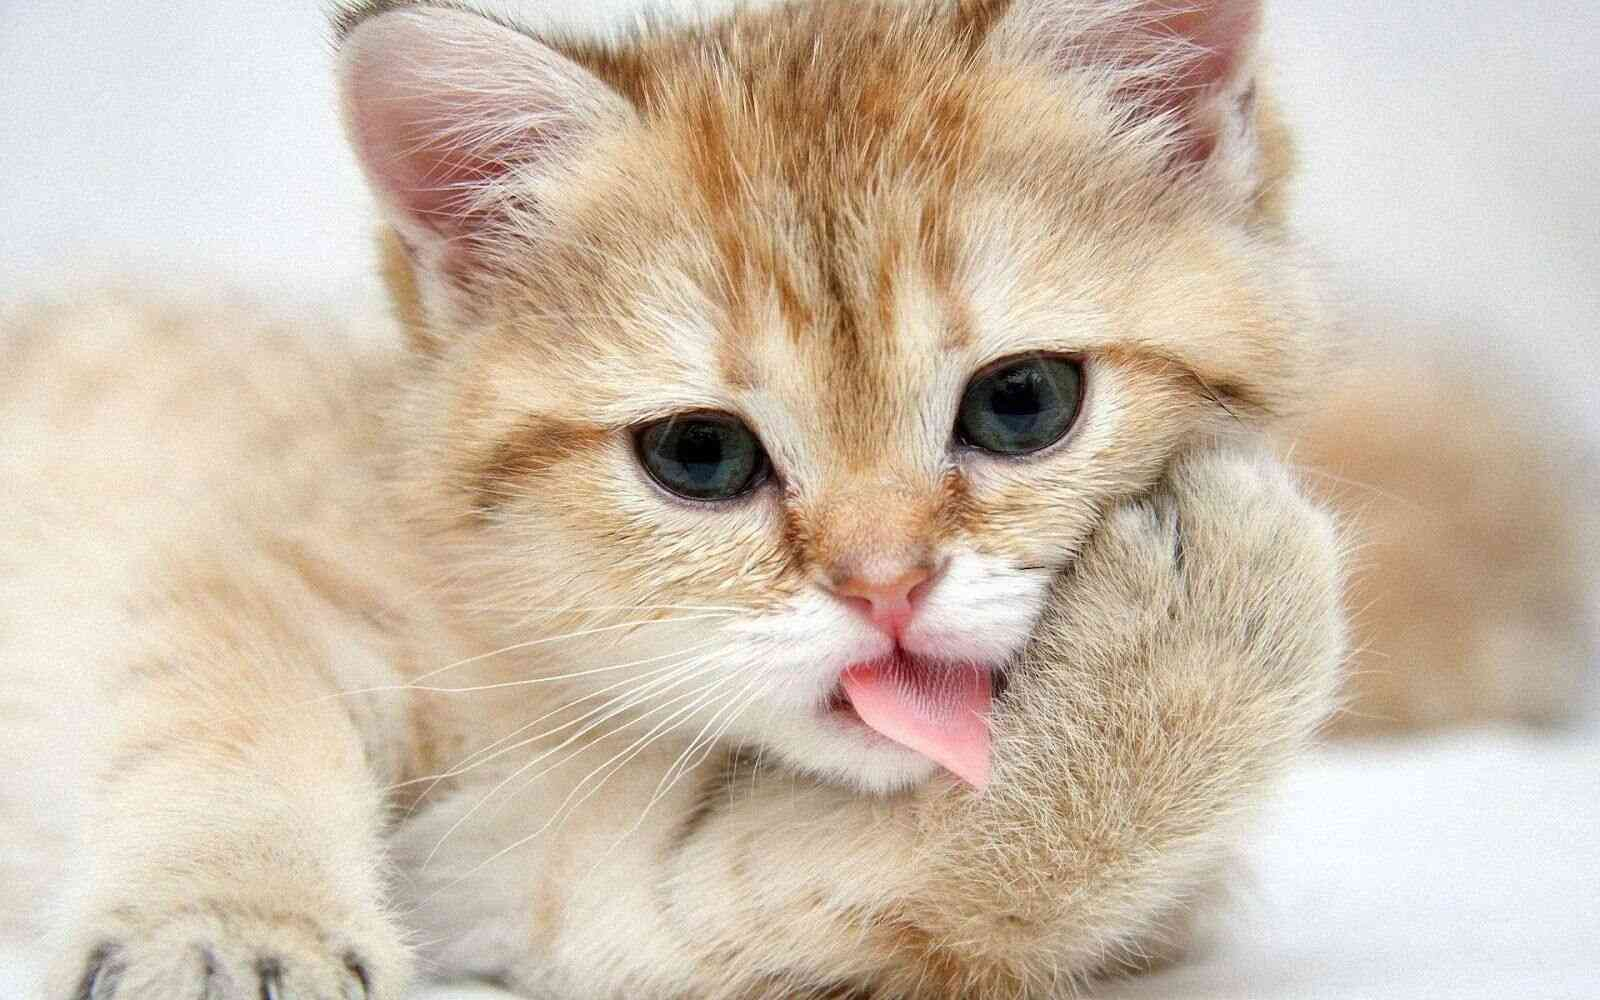
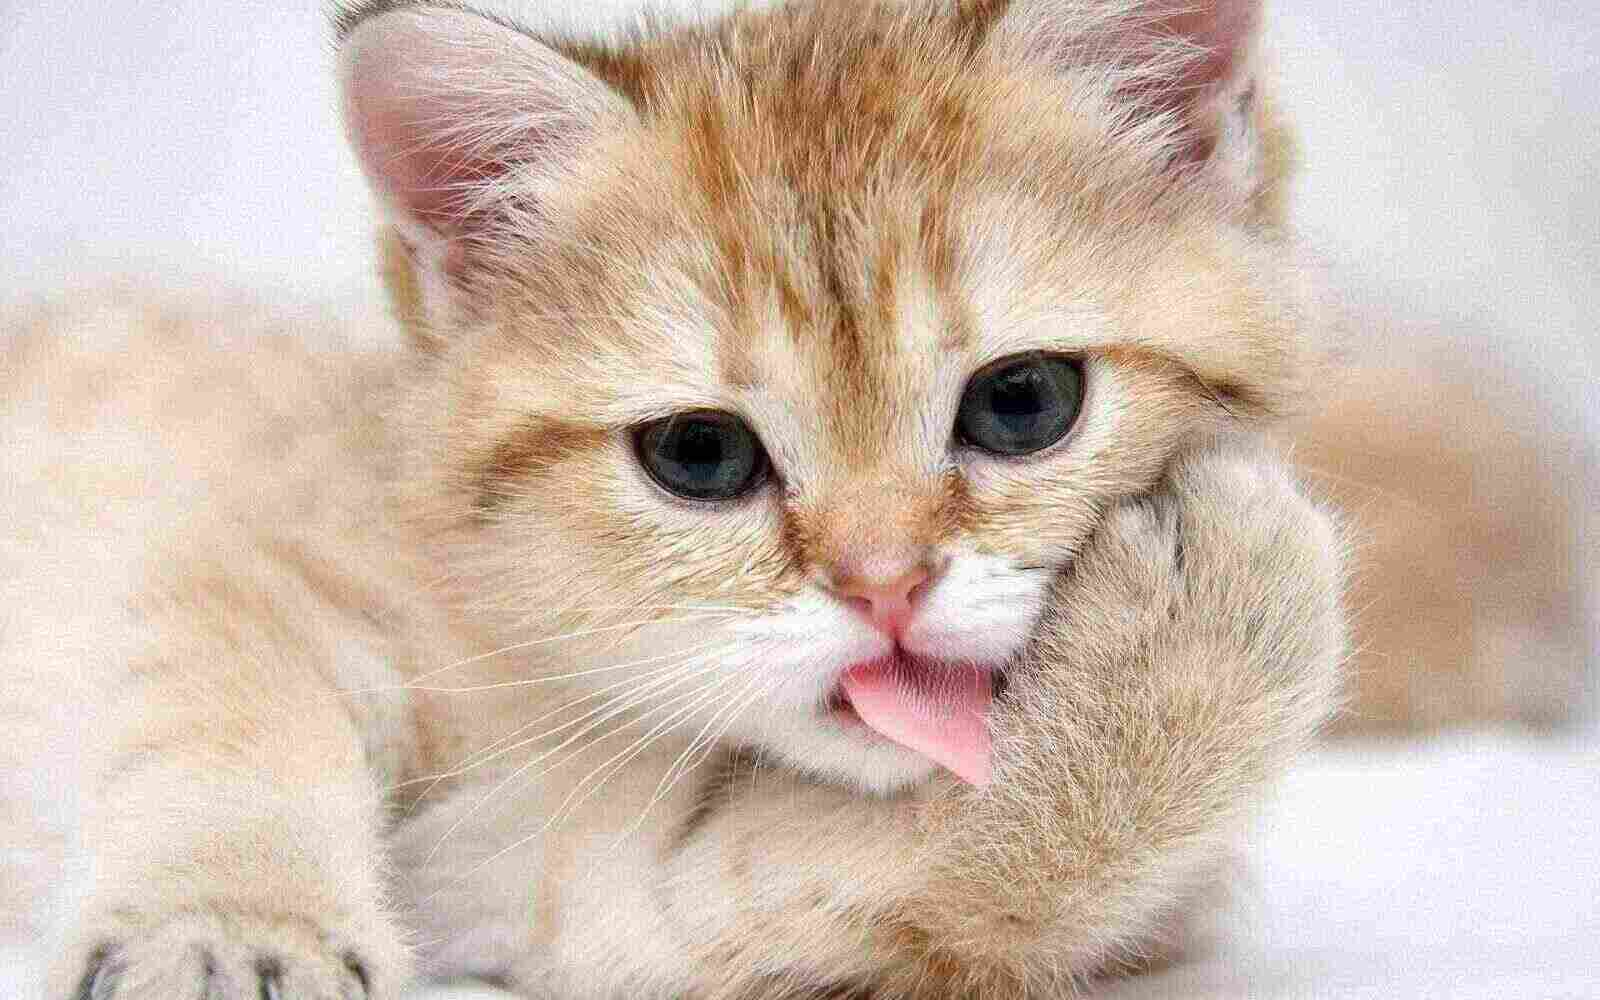
more img compression and adjusted main width for large screen

diff --git a/about.html b/about.html
@@ -35,7 +35,7 @@
             <picture>
                 <source srcset="pics/code-2.png" media="(min-width: 481px)">
                 <source srcset="pics/code-2.jpg" media="(min-width: 481px)">
-                <source srcset="pics/code-800x600.jpg" media="(min-width: 320px) and (max-width: 480px)">
+                <source srcset="pics/code-2.png" media="(min-width: 320px) and (max-width: 480px)">
                 <img src="pics/code-2.jpg" alt="Code Image">
             </picture>
             <p>Hello, my name is Tai Le and I'm currently a 4th year at UC San Diego studying Cognitive and Computer
@@ -55,7 +55,7 @@
             <picture>
                 <source srcset="pics/chicken-2.png" media="(min-width: 481px)">
                 <source srcset="pics/chicken-2.jpg" media="(min-width: 481px)">
-                <source srcset="pics/chicken-800x600.jpg" media="(min-width: 320px) and (max-width: 480px)">
+                <source srcset="pics/chicken-2.jpg" media="(min-width: 320px) and (max-width: 480px)">
                 <img src="pics/chicken-2.jpg" alt="Chicken Image">
             </picture>
             <p>My absolutely favorite food is chicken, and I often prefer them fried or grilled!</p>

diff --git a/css/index.css b/css/index.css
@@ -11,12 +11,12 @@
     --nav-link-height-widescreen: 100%;
     --nav-link-height-smallscreen: 6vh;
     --nav-link-color: white;
-    --nav-link-transition-delay: 0.9s;
     --header-offset-widescreen: 9vh;
     --about-picture-height: 15em;
     --about-image-max-width-widescreen: 320px;
     --about-main-content-width-widescreen: 47.5%;
-    --about-main-width: 85vw;
+    --about-main-width: 70vw;
+    --about-main-width-smallscreen: 85vw;
     --about-main-margin: 2em;
     --projects-table-row-hover-color: rgb(223, 223, 223);
 }
@@ -150,7 +150,6 @@ main {
 nav a:hover {
     color: black;
     background-color: var(--nav-link-color);
-    transition-duration: var(--nav-link-transition-delay);
 }
 
 #home-header {

diff --git a/css/about.css b/css/about.css
@@ -40,7 +40,7 @@
         margin-top: var(--about-main-margin);
         display: flex;
         flex-direction: column;
-        width: var(--about-main-width);
+        width: var(--about-main-width-smallscreen);
     }
 
     main div:nth-child(1),
@@ -69,10 +69,10 @@
         flex-direction: column;
         justify-content: center;
         align-items: center;
-        width: var(--about-main-width);
+        width: var(--about-main-width-smallscreen);
     }
 
     img {
-        max-width: var(--about-main-width);
+        max-width: var(--about-main-width-smallscreen);
     }
 }
